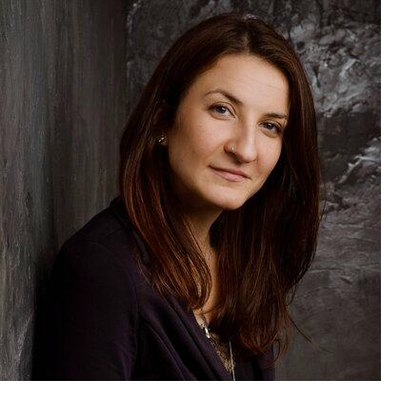
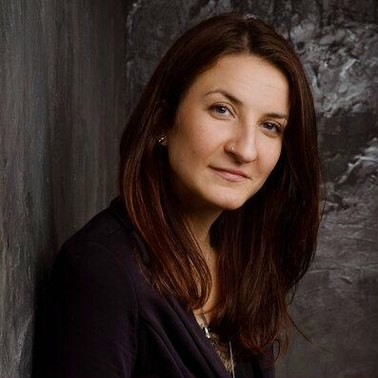
Update szkolenia

diff --git a/szkolenia-superwizja.html b/szkolenia-superwizja.html
@@ -1531,6 +1531,68 @@
         }
 
         /* ============================================ */
+        /* TRAINING CARD WRAPPER                        */
+        /* ============================================ */
+        .training-card {
+            background: var(--white);
+            border-radius: 20px;
+            overflow: hidden;
+            box-shadow: 0 6px 40px rgba(0, 0, 0, 0.09);
+            margin-bottom: 48px;
+            position: relative;
+            border: 1px solid rgba(0, 0, 0, 0.06);
+        }
+
+        .training-card::before {
+            content: '';
+            position: absolute;
+            top: 0;
+            left: 0;
+            right: 0;
+            height: 4px;
+            background: linear-gradient(90deg, var(--highlight-color), var(--primary-color), #FFD700);
+            z-index: 2;
+        }
+
+        .training-card .featured-training {
+            border-radius: 0;
+            box-shadow: none;
+        }
+
+        .training-card .featured-training::before {
+            display: none;
+        }
+
+        .training-card .training-details {
+            margin-top: 0;
+            border-radius: 0;
+            box-shadow: none;
+            border-top: 1px solid var(--medium-gray);
+        }
+
+        .training-card .countdown-section {
+            margin-top: 0;
+            padding: 26px 40px 32px;
+            background: var(--light-gray);
+            border-top: 1px solid var(--medium-gray);
+        }
+
+        .training-card .countdown-unit {
+            min-width: 72px;
+            padding: 16px 13px;
+            border-radius: 13px;
+        }
+
+        .training-card .countdown-number {
+            font-size: 1.76rem;
+            margin-bottom: 5px;
+        }
+
+        .training-card .countdown-text {
+            font-size: 0.6rem;
+        }
+
+        /* ============================================ */
         /* ANIMATIONS                                   */
         /* ============================================ */
         .animate {
@@ -1643,6 +1705,19 @@
             }
 
             .countdown { gap: 10px; }
+
+            .training-card .countdown-section {
+                padding: 20px 16px 24px;
+            }
+
+            .training-card .countdown-unit {
+                min-width: 56px;
+                padding: 13px 10px;
+            }
+
+            .training-card .countdown-number {
+                font-size: 1.44rem;
+            }
 
             .countdown-unit {
                 min-width: 70px;
@@ -1784,8 +1859,10 @@
                         <div class="gradient-line"></div>
                     </div>
 
-                    <!-- TESLA INNOVATION 2: Featured Training Card -->
-                    <article class="featured-training animate" aria-label="Wyróżnione szkolenie">
+                    <!-- Training Card: Terapia uzależnień behawioralnych -->
+                    <div class="training-card animate">
+
+                    <article class="featured-training" aria-label="Wyróżnione szkolenie">
                         <div class="featured-left">
                             <div class="featured-badge">
                                 <svg width="14" height="14" viewBox="0 0 24 24" fill="currentColor"><polygon points="12 2 15.09 8.26 22 9.27 17 14.14 18.18 21.02 12 17.77 5.82 21.02 7 14.14 2 9.27 8.91 8.26"/></svg>
@@ -1861,31 +1938,8 @@
                         </div>
                     </article>
 
-                    <!-- TESLA INNOVATION 3: Countdown -->
-                    <div class="countdown-section animate" aria-label="Odliczanie do szkolenia">
-                        <p class="countdown-label">Do rozpoczęcia szkolenia pozostało</p>
-                        <div class="countdown" role="timer" aria-live="polite">
-                            <div class="countdown-unit">
-                                <div class="countdown-number" id="cd-days">---</div>
-                                <div class="countdown-text">dni</div>
-                            </div>
-                            <div class="countdown-unit">
-                                <div class="countdown-number" id="cd-hours">--</div>
-                                <div class="countdown-text">godzin</div>
-                            </div>
-                            <div class="countdown-unit">
-                                <div class="countdown-number" id="cd-mins">--</div>
-                                <div class="countdown-text">minut</div>
-                            </div>
-                            <div class="countdown-unit">
-                                <div class="countdown-number" id="cd-secs">--</div>
-                                <div class="countdown-text">sekund</div>
-                            </div>
-                        </div>
-                    </div>
-
                     <!-- Expandable Details -->
-                    <div class="training-details animate">
+                    <div class="training-details">
                         <button class="details-toggle" aria-expanded="false" aria-controls="details-content">
                             <span>Szczegóły programu szkolenia</span>
                             <span class="toggle-arrow" aria-hidden="true">&#9662;</span>
@@ -2122,6 +2176,31 @@
                             </div>
                         </div>
                     </div>
+
+                    <!-- TESLA INNOVATION 3: Countdown -->
+                    <div class="countdown-section" aria-label="Odliczanie do szkolenia">
+                        <p class="countdown-label">Do rozpoczęcia szkolenia pozostało</p>
+                        <div class="countdown" role="timer" aria-live="polite">
+                            <div class="countdown-unit">
+                                <div class="countdown-number" id="cd-days">---</div>
+                                <div class="countdown-text">dni</div>
+                            </div>
+                            <div class="countdown-unit">
+                                <div class="countdown-number" id="cd-hours">--</div>
+                                <div class="countdown-text">godzin</div>
+                            </div>
+                            <div class="countdown-unit">
+                                <div class="countdown-number" id="cd-mins">--</div>
+                                <div class="countdown-text">minut</div>
+                            </div>
+                            <div class="countdown-unit">
+                                <div class="countdown-number" id="cd-secs">--</div>
+                                <div class="countdown-text">sekund</div>
+                            </div>
+                        </div>
+                    </div>
+
+                    </div><!-- end .training-card -->
                 </div>
             </section>
         </div>
@@ -2229,8 +2308,7 @@
                         <!-- Adam Elżanowski -->
                         <article class="supervisor-card animate" aria-label="Adam Elżanowski — superwizor">
                             <div class="supervisor-avatar">
-                                <!-- 📸 ZDJĘCIE: <img src="zdjecie-adam.jpg" alt="Adam Elżanowski"> -->
-                                AE
+                                <img src="adam-elzanowski-act.jpg" alt="Adam Elżanowski">
                             </div>
                             <h3 class="supervisor-name">Adam Elżanowski</h3>
                             <div class="supervisor-role">Psychoterapeuta i&nbsp;superwizor CBT</div>
@@ -2251,8 +2329,7 @@
                         <!-- Magdalena Skuza -->
                         <article class="supervisor-card animate" aria-label="Magdalena Skuza — superwizor">
                             <div class="supervisor-avatar">
-                                <!-- 📸 ZDJĘCIE: <img src="zdjecie-magda.jpg" alt="Magdalena Skuza"> -->
-                                MS
+                                <img src="magda_skuza.jpg" alt="Magdalena Skuza">
                             </div>
                             <h3 class="supervisor-name">Magdalena Skuza</h3>
                             <div class="supervisor-role">Psychoterapeuta i&nbsp;superwizor CBT i&nbsp;DBT</div>
@@ -2273,8 +2350,7 @@
                         <!-- Karolina Rakocz -->
                         <article class="supervisor-card animate" aria-label="Karolina Rakocz — superwizor">
                             <div class="supervisor-avatar">
-                                <!-- 📸 ZDJĘCIE: <img src="zdjecie-karolina.jpg" alt="Karolina Rakocz"> -->
-                                KR
+                                <img src="karolina_rakocz.jpg" alt="Karolina Rakocz">
                             </div>
                             <h3 class="supervisor-name">Karolina Rakocz</h3>
                             <div class="supervisor-role">Psychoterapeuta CBT, superwizor terapii uzależnień</div>